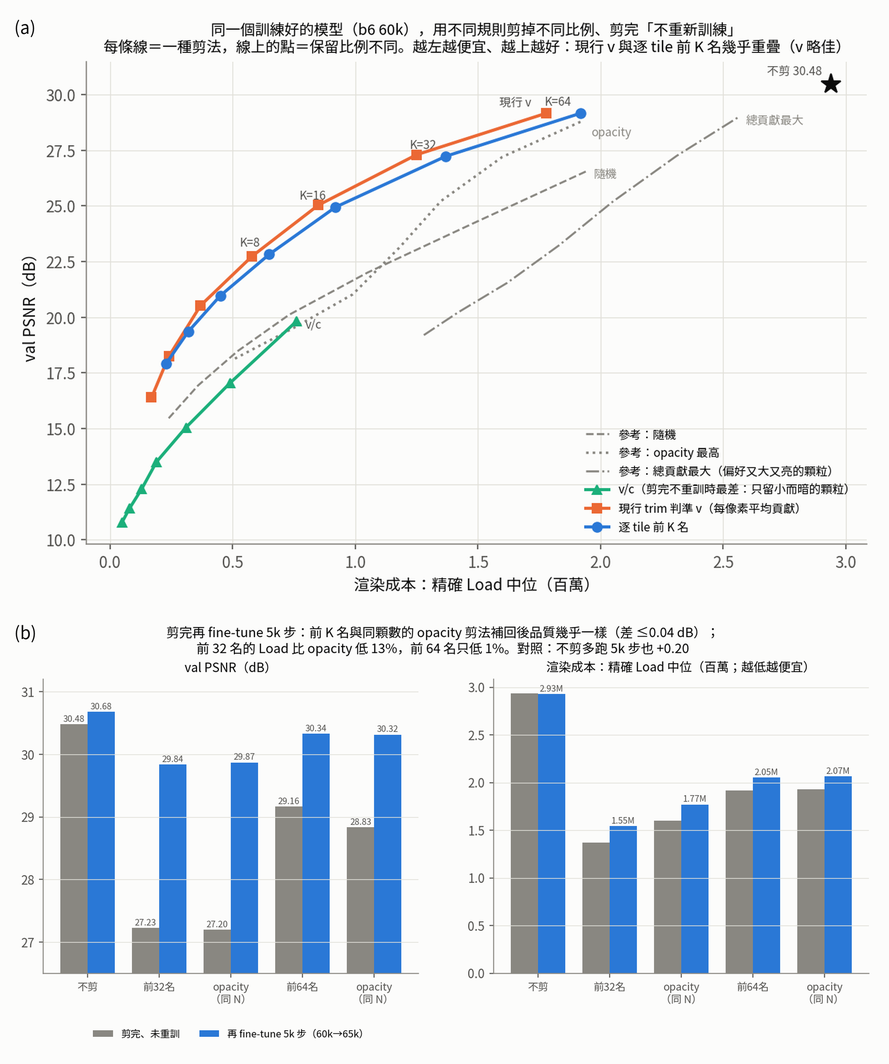
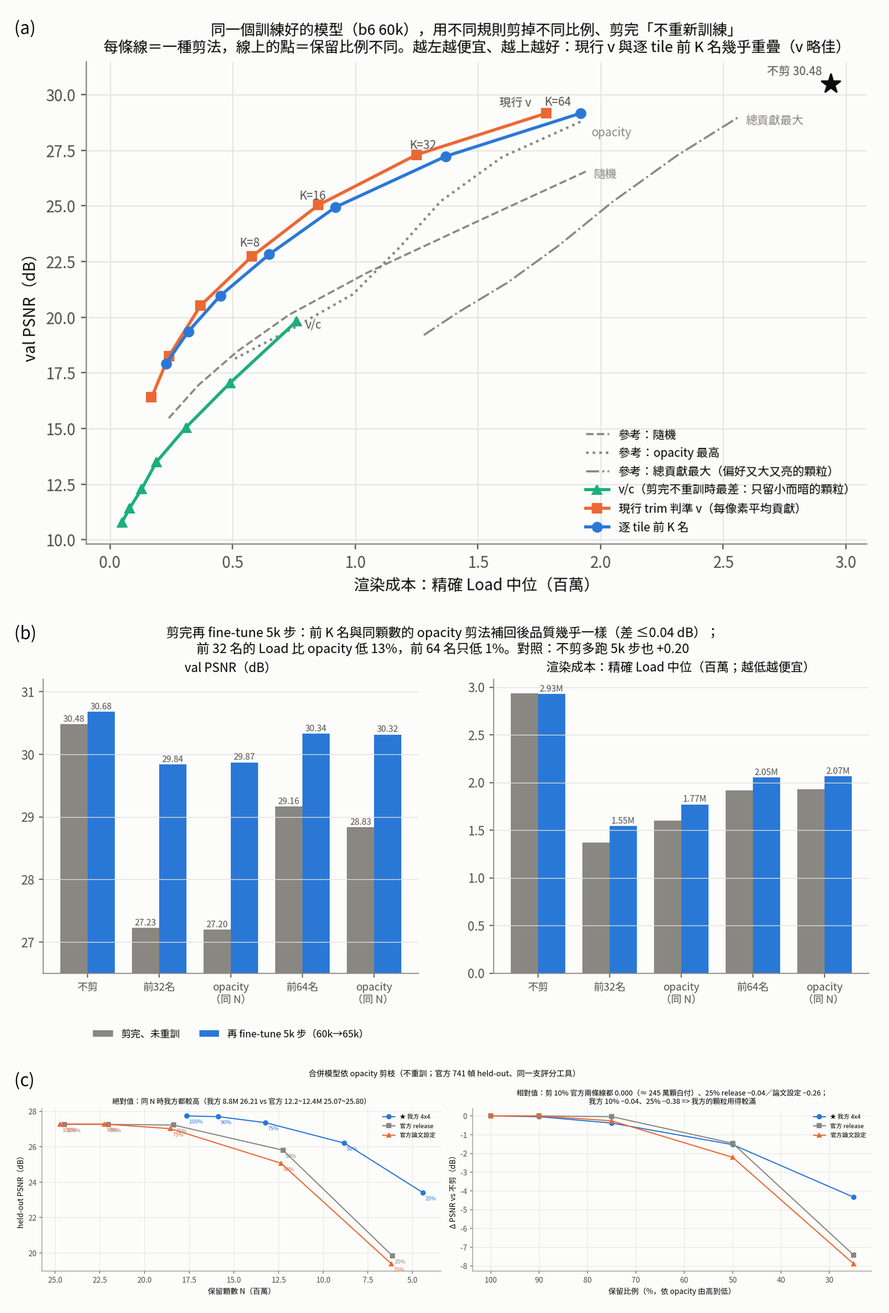
圖表：官方數據放進對應的我方圖表＋現行最佳 best0
01(d) 逐塊訓練時間三方；02(c) 訓練峰值（同塊 best0／full44／官方兩線＋16 塊）；03(d) 單塊／合併 ckpt 與部署大小（GiB，官方部署檔較小）；
04(e) 逐塊精確 Load 三方＋best0；05(a) 改 4x4 換塊評測（相對 best0，含 full44 舊配方）；06(c)＝09(h) 合併模型 opacity 剪枝三條曲線；
12(c) 合併模型逐塊 PSNR 與失敗 tile 三方（PSNR 全贏、失敗 tile 較多）；01(a) 飽和跳過＋先加總的 60k 判定（平手）

Claude-Session: https://claude.ai/code/session_01ASvjmyPMC4F37W41o8s8Aq

diff --git a/tools/plot_analysis.py b/tools/plot_analysis.py
@@ -546,7 +546,7 @@ def n01_steps(d):
         ("我方 lean 關\nb6 N 2.29M｜10-02", dict(forward=36.69, backward=84.85, optimizer=15.15, loss=5.02, trim=27875 / 500, loop=8.00, other=3.33), ""),
         ("＋lean_render\n（-20.9%／步）｜10-02", dict(forward=21.13, backward=68.64, optimizer=15.15, loss=5.05, trim=27589 / 500, loop=8.03, other=3.32), ""),
         ("＋record_reduce（現行）\ntrim 每次 -35%｜10-03", dict(forward=21.15, backward=68.75, optimizer=15.14, loss=5.06, trim=17975 / 500, loop=8.02, other=2.79), ""),
-        ("＋飽和跳過＋block 內先加總\nN 2.58M｜10-10（60k 判定中）", dict(forward=19.07, backward=40.86, optimizer=14.79, loss=5.05, trim=17104 / 500, loop=7.36, other=4.60), "（60k 分數判定已排）"),
+        ("＋飽和跳過＋block 內先加總\nN 2.58M｜10-10", dict(forward=19.07, backward=40.86, optimizer=14.79, loss=5.05, trim=17104 / 500, loop=7.36, other=4.60), "（60k 換塊評測：與 best0 平手 +0.01／+0.03 => 可開）"),
     ]
     fig, ax = plt.subplots(figsize=(14, 5.4))
     order = ["backward", "forward", "trim", "optimizer", "loss", "loop", "other"]
@@ -861,19 +861,203 @@ def n13_swap(d):
     save(fig, d, "n13_swap.png")
 
 
+# ══════════════ 10-14 使用者：官方數據放進對應的我方圖表＋現行最佳（best0）══════════════
+OFFD = os.path.join(DST, "data", "official")      # lab logs/ 的副本（2026-10-14 下載；citygs_official_*、full44_*）
+# 我方 full44（cs60_sfmdup4 配方、opacity_reg 0.002）逐塊精確 Load 中位（chart_data/load.txt ③）；官方取自 citygs_official_blockload*.log 60k
+LOAD44 = {
+    "ours": [2.576, 2.433, 2.789, 2.975, 2.305, 2.517, 2.834, 3.008, 2.338, 2.335, 2.555, 2.536, 2.870, 2.367, 2.211, 2.625],
+    "rel": [6.329, 5.297, 6.737, 5.398, 5.694, 7.041, 8.229, 6.409, 6.530, 7.717, 8.093, 6.900, 7.372, 8.685, 8.813, 7.163],
+    "pap": [6.167, 5.117, 6.596, 5.273, 5.741, 6.653, 7.938, 6.273, 6.481, 7.697, 8.131, 6.909, 7.450, 8.776, 8.479, 6.643],
+}
+BEST0 = {"peak": {6: 3.95, 12: 3.92}, "load": {6: 1.893, 12: 1.859}}   # g44_best0 60k（台帳峰值實佔 GB；chart_data/load.txt ③ 中位，百萬）
+
+
+def n01_blocktime(d):
+    """逐塊訓練時間（4x4、60k、lab 3090）：我方 full44 vs 官方 release vs 論文設定（原 09(b) 右）。"""
+    x = np.arange(16); wd = 0.27
+    fig, ax = plt.subplots(figsize=(14, 3.8))
+    for k, c, dx, lb in [("omin", C1, -wd, LBL3[0]), ("rmin", MUTED, 0, LBL3[1]), ("pmin", C2, wd, LBL3[2])]:
+        bars = ax.bar(x + dx, [m / 60 for m in F44[k]], wd, color=c, label=lb)
+        if k != "omin":
+            for b_, e in zip(bars, F44["rext" if k == "rmin" else "pext"]):
+                if e > 2000:
+                    b_.set_hatch("///"); b_.set_alpha(0.45)
+    ax.set_xticks(x); ax.set_xlabel("4x4 block"); ax.set_ylabel("訓練時間（h）"); ax.legend(fontsize=8, loc="upper left")
+    ax.set_title("逐塊訓練時間（斜線＝期間同卡外部佔用 > 2 GB，不可引用）：block 0~9 乾淨的合計 我方 19.3 h vs release 40.3 h（0.48 倍）\n"
+                 "我方＝full44（opacity_reg 0.002 舊配方）；現行 best0 只有 b6／b12，且 10-12~14 同卡外部佔用時有時無 => 時間不列", fontsize=9.5)
+    save(fig, d, "n01_blocktime.png")
+
+
+def n02_peak3(d):
+    """訓練峰值（GB）：現行 best0（b6／b12）、full44 舊配方、官方 release／論文設定（同塊）；16 塊全貌。"""
+    fig, axs = plt.subplots(1, 2, figsize=(16, 4.3), gridspec_kw={"width_ratios": [1, 1.8]})
+    ax = axs[0]
+    grp = [("★ 我方 best0（現行）", [BEST0["peak"][6], BEST0["peak"][12]], C1),
+           ("我方 full44（opacity_reg 0.002）", [F44["opk"][6], F44["opk"][12]], "#7fa9e0"),
+           ("官方 release", [F44["rpk"][6], F44["rpk"][12]], MUTED), ("官方論文設定", [F44["ppk"][6], F44["ppk"][12]], C2)]
+    x = np.arange(2); wd = 0.2
+    for k, (lb, v, c) in enumerate(grp):
+        barlabels(ax, ax.bar(x + (k - 1.5) * wd, v, wd, color=c, label=lb), "{:.2f}", size=7.5)
+    ax.axhline(6.44, color="#c0392b", lw=1, ls="--"); ax.text(1.45, 6.6, "6 GiB 卡", color="#c0392b", fontsize=8, ha="right")
+    ax.set_xticks(x); ax.set_xticklabels(["block 6", "block 12"]); ax.set_ylabel("訓練峰值實佔（GB）"); ax.legend(fontsize=7.5, loc="upper left")
+    ax.set_ylim(0, 14.5); ax.set_title("同塊訓練峰值：我方 3.9~4.1 GB vs 官方 6.2~12.7 GB", fontsize=9.5)
+    ax = axs[1]
+    xx = np.arange(16)
+    for k, c, mk, lb in [("opk", C1, "o", "我方 full44"), ("rpk", MUTED, "s", LBL3[1]), ("ppk", C2, "^", LBL3[2])]:
+        ax.plot(xx, F44[k], marker=mk, color=c, lw=0, ms=6, label=lb)
+    ax.plot([6, 12], [BEST0["peak"][6], BEST0["peak"][12]], marker="*", color="#123f7a", lw=0, ms=11, label="★ 我方 best0（現行，b6／b12）")
+    ax.axhline(6.44, color="#c0392b", lw=1, ls="--")
+    ax.set_xticks(xx); ax.set_xlabel("4x4 block"); ax.set_ylabel("訓練峰值實佔（GB）"); ax.legend(fontsize=7.5, ncol=2)
+    ax.set_title("16 塊：我方 4.05~4.17；release 7.65~14.56；論文設定 5.24~11.23（只有 b3、b7 低於 6 GiB）", fontsize=9.5)
+    save(fig, d, "n02_peak3.png")
+
+
+def n03_official(d):
+    """成果檔與部署大小：單塊 ckpt（b6）、合併 ckpt、部署（只算參數）——我方 vs 官方（`citygs_official_storage.log`）。"""
+    fig, axs = plt.subplots(1, 3, figsize=(17, 4.2))
+    lab = ["★ 我方", "官方 release", "官方論文設定"]; col = [C1, MUTED, C2]
+    ax = axs[0]
+    v = [1.52, 3.0, 2.3]; n = [2.34, 7.11, 5.31]          # GiB（官方 storage log 的「GB」是 2^30；我方 1,628,658,586 B）
+    b = ax.bar(lab, v, color=col); barlabels(ax, b, "{:.2f} GiB", size=8)
+    for i in range(3):
+        ax.text(i, v[i] / 2, f"N {n[i]:.2f}M\n{2**30 * v[i] / (n[i] * 1e6):.0f} B／顆", ha="center", color="white", fontsize=8)
+    ax.set_ylabel("GiB"); ax.set_title("單塊 60k ckpt（block 6；含 Adam）\n我方 SH3 696 B／顆；官方 SH2 456 B／顆（參數 148＋Adam 296＋緩衝 12）", fontsize=9)
+    ax = axs[1]
+    v = [11.43, 40.5, 29.0]; n = [17.63, 24.48, 24.72]    # GiB（我方 merged.ckpt 11,703 MiB）
+    b = ax.bar(lab, v, color=col); barlabels(ax, b, "{:.1f} GiB", size=8)
+    ax.set_ylabel("GiB"); ax.set_title("合併 ckpt：官方合併時把 16 塊的優化器狀態一起疊進去（1,566 B／顆）\n=> 40.5 GiB 主要是 Adam，不是模型", fontsize=9)
+    ax = axs[2]
+    per = [232, 148, 148]
+    v = [n[i] * 1e6 * per[i] / 2**30 for i in range(3)]
+    b = ax.bar(lab, v, color=col); barlabels(ax, b, "{:.2f} GiB", size=8)
+    for i in range(3):
+        ax.text(i, v[i] / 2, f"{n[i]:.2f}M 顆\n× {per[i]} B", ha="center", color="white", fontsize=8)
+    ax.set_ylabel("GiB"); ax.set_title("部署（只存參數、float32）：⚠ 官方較小 —— SH2 每顆 148 B，我方 SH3 232 B\n（我方顆數少 28%，但每顆多 57%；SH 階數的取捨見佇列 sh2／1／0）", fontsize=9)
+    fig.suptitle("儲存對照官方（lab `citygs_official_storage.log`；我方 ckpt 實測檔案大小）；官方 CPU RAM 快取未量", fontsize=10)
+    save(fig, d, "n03_official.png")
+
+
+def n04_load3(d):
+    """逐塊精確 Load 中位（同一支工具、各模型自己那塊的訓練相機）：我方 full44／best0 vs 官方。"""
+    x = np.arange(16); wd = 0.27
+    fig, ax = plt.subplots(figsize=(14, 3.9))
+    for k, c, dx, lb in [("ours", C1, -wd, "我方 full44（opacity_reg 0.002）"), ("rel", MUTED, 0, LBL3[1]), ("pap", C2, wd, LBL3[2])]:
+        ax.bar(x + dx, LOAD44[k], wd, color=c, label=lb)
+    ax.plot([6 - wd, 12 - wd], [BEST0["load"][6], BEST0["load"][12]], marker="*", color="#123f7a", lw=0, ms=12, label="★ 我方 best0（現行，b6／b12）")
+    r = np.mean(np.array(LOAD44["ours"]) / np.array(LOAD44["rel"]))
+    ax.set_xticks(x); ax.set_xlabel("4x4 block"); ax.set_ylabel("精確 Load 中位（百萬 tile／視角）"); ax.legend(fontsize=7.5, ncol=2, loc="upper left")
+    ax.set_ylim(0, 10.5)
+    ax.set_title(f"逐塊渲染成本：我方 full44 平均是 release 的 {100 * r:.0f}%；現行 best0 再低約 1/3（b6 −33%／b12 −35%）\n"
+                 "（60k 終點、各模型自己那塊的全部訓練相機；官方 lab `citygs_official_blockload*.log`、我方 `chart_data/load.txt`）", fontsize=9.5)
+    save(fig, d, "n04_load3.png")
+
+
+def n05_main4x4(d):
+    """4x4 主要跑次（相對現行 best0）：換塊評測的本塊幾何區域 PSNR、精確 Load（取代 5x5 舊版 05(a)）。"""
+    R = [("full44 舊配方（opacity_reg 0.002）", -0.054, 0.093, 49.7, 54.4),
+         ("best0 重複（只差訓練隨機性）", 0.005, 0.025, -2.5, 1.3),
+         ("opacity 二元熵正則", -0.031, 0.026, -12.3, -22.9),
+         ("trim 判準 V/C", -0.062, -0.244, -17.2, -9.7),
+         ("trim 判準 V/(β+C)", -0.042, -0.038, 18.5, 14.9),
+         ("拉長顆粒硬剪", -0.180, 0.028, 0.6, 2.0),
+         ("低解析度起步", -0.037, -0.086, -2.9, -5.0),
+         ("三次門檻剪", -0.291, -0.176, -6.1, -11.8),
+         ("週期 trim 全關", -0.395, -0.353, 7.7, 6.2),
+         ("v/c × tile 名次", -1.124, -0.192, -53.5, -46.4),
+         ("v/c", -3.817, -0.895, -63.4, -54.4)]
+    fig, axs = plt.subplots(1, 2, figsize=(16, 5.0), gridspec_kw={"width_ratios": [1.5, 1]})
+    y = np.arange(len(R)); h = 0.38
+    ax = axs[0]
+    ax.barh(y - h / 2, [r[1] for r in R], h, color=C1, label="block 6", zorder=2)
+    ax.barh(y + h / 2, [r[2] for r in R], h, color=C2, label="block 12", zorder=2)
+    for i, r in enumerate(R):
+        for off, v in ((-h / 2, r[1]), (h / 2, r[2])):
+            if v < -0.95:      # 截斷：標在長條內
+                ax.text(-0.98, i + off, f"{v:+.2f}（截斷）", va="center", ha="left", fontsize=7, color="white")
+            else:
+                ax.text(v + (0.01 if v >= 0 else -0.01), i + off, f"{v:+.2f}", va="center", ha="left" if v >= 0 else "right", fontsize=7)
+    ax.axvspan(-0.03, 0.03, color="#e1e0d9", alpha=0.7, lw=0, zorder=0)
+    ax.axvline(0, color=MUTED, lw=1); ax.set_yticks(y); ax.set_yticklabels([r[0] for r in R], fontsize=8.5); ax.invert_yaxis()
+    ax.set_xlim(-1.0, 0.2); ax.legend(fontsize=8, loc="upper left")
+    ax.set_xlabel("Δ 本塊幾何區域 PSNR（dB，換塊評測，相對 best0；灰帶 ±0.03＝重複的差；< −1 截斷）")
+    ax.set_title("品質：只有二元熵正則落在雜訊內；舊配方 b6 略好、b12 略差", fontsize=9.5)
+    ax = axs[1]
+    ax.barh(y - h / 2, [r[3] for r in R], h, color=C1); ax.barh(y + h / 2, [r[4] for r in R], h, color=C2)
+    for i, r in enumerate(R):
+        for off, v in ((-h / 2, r[3]), (h / 2, r[4])):
+            ax.text(v + (1 if v >= 0 else -1), i + off, f"{v:+.0f}%", va="center", ha="left" if v >= 0 else "right", fontsize=7)
+    ax.axvline(0, color=MUTED, lw=1); ax.set_yticks(y); ax.set_yticklabels([]); ax.invert_yaxis(); ax.set_xlim(-75, 65)
+    ax.set_xlabel("Δ 精確 Load 中位（%，相對 best0；越左越便宜）"); ax.set_title("渲染成本：舊配方比 best0 貴約 50%", fontsize=9.5)
+    fig.suptitle("60k 主要跑次（4x4 b6／b12，現行基底 best0＝dup init＋opacity_reg 0）：換塊評測（full44 合併模型只換一塊）；"
+                 "全場景對官方見 (b)、細節見 `13` §7", fontsize=10)
+    save(fig, d, "n05_main4x4.png")
+
+
+def _prune(name):
+    import csv
+    with open(os.path.join(OFFD, f"full44_prunecurve_{name}.tsv")) as f:
+        r = list(csv.DictReader(f, delimiter="\t"))
+    return [float(x["keep"]) for x in r], [float(x["N"]) / 1e6 for x in r], [float(x["psnr"]) for x in r], [float(x["lpips"]) for x in r]
+
+
+def n06_prune3(d):
+    """合併模型依 opacity 剪枝（不重訓）、官方 741 幀 held-out、同一支評分工具：我方 vs release vs 論文設定（lab full44_prunecurve_*.tsv，10-10）。"""
+    fig, axs = plt.subplots(1, 2, figsize=(16, 4.4))
+    for nm, c, mk, lb in [("ours", C1, "o", "★ 我方 4x4"), ("release", MUTED, "s", LBL3[1]), ("paper", C2, "^", LBL3[2])]:
+        k, n, p, l = _prune(nm)
+        axs[0].plot(n, p, marker=mk, color=c, label=lb)
+        for kk, nn, pp in zip(k, n, p):
+            axs[0].annotate(f"{int(round(kk * 100))}%", (nn, pp), xytext=(3, -10), textcoords="offset points", fontsize=7, color=c)
+        axs[1].plot([100 * x for x in k], [x - p[0] for x in p], marker=mk, color=c, label=lb)
+    axs[0].set_xlabel("保留顆數 N（百萬）"); axs[0].set_ylabel("held-out PSNR（dB）"); axs[0].invert_xaxis(); axs[0].legend(fontsize=8)
+    axs[0].set_title("絕對值：同 N 時我方都較高（我方 8.8M 26.21 vs 官方 12.2~12.4M 25.07~25.80）", fontsize=9.5)
+    axs[1].set_xlabel("保留比例（%，依 opacity 由高到低）"); axs[1].set_ylabel("Δ PSNR vs 不剪（dB）"); axs[1].invert_xaxis(); axs[1].legend(fontsize=8)
+    axs[1].set_title("相對值：剪 10% 官方兩條線都 0.000（≈ 245 萬顆白付）、25% release −0.04／論文設定 −0.26；\n我方 10% −0.04、25% −0.38 => 我方的顆粒用得較滿", fontsize=9.5)
+    fig.suptitle("合併模型依 opacity 剪枝（不重訓；官方 741 幀 held-out、同一支評分工具）", fontsize=10.5)
+    save(fig, d, "n06_prune3.png")
+
+
+def n12_fail3(d):
+    """合併模型逐塊（各塊 held-out 視角）：PSNR 與失敗 tile 比例，我方 vs 官方（lab full44_failheld.txt）。"""
+    import re
+    rows = []
+    for l in open(os.path.join(OFFD, "full44_failheld.txt"), encoding="utf-8"):
+        m = re.match(r"\s*(\d+|全)\s+(\d+)\s+([\d.]+)\s+([\d.]+)\s+([\d.]+)\s+\S+\s+\S+\s+ours ([\d.]+)／([\d.]+)\s+release ([\d.]+)／([\d.]+)\s+paper ([\d.]+)／([\d.]+)", l)
+        if m:
+            rows.append(m.groups())
+    blk = [r for r in rows if r[0] != "全"]; allr = [r for r in rows if r[0] == "全"][0]
+    x = np.arange(len(blk)); wd = 0.27
+    fig, axs = plt.subplots(1, 2, figsize=(17, 4.3))
+    ax = axs[0]
+    for j, c, lb in [(2, C1, "★ 我方 4x4"), (3, MUTED, LBL3[1]), (4, C2, LBL3[2])]:
+        ax.bar(x + (j - 3) * wd, [float(r[j]) for r in blk], wd, color=c, label=lb)
+    ax.set_ylim(26.2, 28.6); ax.set_xticks(x); ax.set_xticklabels([r[0] for r in blk]); ax.set_xlabel("4x4 block（該塊 held-out 視角）")
+    ax.set_ylabel("合併模型 PSNR（dB）"); ax.legend(fontsize=8, ncol=3, loc="upper left")
+    ax.set_title(f"PSNR：我方 16/16 塊都高（全 741 幀 {float(allr[2]):.2f} vs {float(allr[3]):.2f}／{float(allr[4]):.2f}）", fontsize=9.5)
+    ax = axs[1]
+    for j, c, lb in [(6, C1, "★ 我方 4x4"), (8, MUTED, LBL3[1]), (10, C2, LBL3[2])]:
+        ax.bar(x + ((j - 6) / 2 - 1) * wd, [float(r[j]) for r in blk], wd, color=c, label=lb)
+    ax.set_xticks(x); ax.set_xticklabels([r[0] for r in blk]); ax.set_xlabel("4x4 block")
+    ax.set_ylabel("失敗 tile %（過對比門檻的 tile 中）"); ax.legend(fontsize=8)
+    ax.set_title(f"⚠ 失敗 tile：我方反而較多（全 {float(allr[6]):.2f}% vs {float(allr[8]):.2f}%／{float(allr[10]):.2f}%）——多在每格離接縫遠處（10-12 接縫檢查）；\n"
+                 "區塊 10 換成 best0 後該塊 0.40% -> 0.17%（10-12），全場景 best0 未重跑", fontsize=9.5)
+    fig.suptitle("合併模型逐塊對照官方（官方 741 幀 held-out、同一支評分工具；失敗 tile＝48px、GT 灰階 std >= 0.10 且 corr < 0.6）", fontsize=10.5)
+    save(fig, d, "n12_fail3.png")
+
+
 DOCS = {
-    "01_訓練時間組成": ["n01_steps", "n01_scaling", "n01_maxsplit"],
-    "02_VRAM與配置器": ["n02_segments", "n02_value"],
-    "03_儲存與RAM": ["fig4_ckpt_storage", "fig6_run_dir", "fig5_ram_cache"],
-    "04_外接盒與binning成本": ["cc1_quality_delta", "n04_time", "n04_load", "cc4_proxy_decoupled"],
-    "05_成本品質前緣與vc_trim": ["n05_main", "n05_official", "n05_frontier60k", "n05_cap60k", "fig8_trimvpc_time"],
-    "06_事後剪枝與fine-tune": ["f3_tile_topk_posthoc", "f6_prune_finetune"],
+    "01_訓練時間組成": ["n01_steps", "n01_scaling", "n01_maxsplit", "n01_blocktime"],
+    "02_VRAM與配置器": ["n02_segments", "n02_value", "n02_peak3"],
+    "03_儲存與RAM": ["fig4_ckpt_storage", "fig6_run_dir", "fig5_ram_cache", "n03_official"],
+    "04_外接盒與binning成本": ["cc1_quality_delta", "n04_time", "n04_load", "cc4_proxy_decoupled", "n04_load3"],
+    "05_成本品質前緣與vc_trim": ["n05_main4x4", "n05_official", "n05_frontier60k", "n05_cap60k", "fig8_trimvpc_time"],
+    "06_事後剪枝與fine-tune": ["f3_tile_topk_posthoc", "f6_prune_finetune", "n06_prune3"],
     "07_成本感知取樣與預算": ["n07_sampling"],
     "08_初始化": ["n08_init20k", "f4_init60k", "n08_init60k"],
-    "09_官方參考線": ["n09_full44_merged", "n09_full44_blocks", "n09_merged_blocks", "n09_stepprof", "n09_evalgap", "n09_official_blocks", "n09_trim", "f5_official_prune"],
+    "09_官方參考線": ["n09_full44_merged", "n09_full44_blocks", "n09_merged_blocks", "n09_stepprof", "n09_evalgap", "n09_official_blocks", "n09_trim", "n06_prune3"],
     "10_速度優化_lean與kernel拆解": ["n10_kernels"],
     "11_逐配對工作量上限": ["n11_tiles"],
-    "12_新年代重測_幾何floater失敗區": ["n12_recheck", "n12_heldout"],
+    "12_新年代重測_幾何floater失敗區": ["n12_recheck", "n12_heldout", "n12_fail3"],
     "13_trim判準與opacity熵的負交互": ["n13_struct", "n13_race", "n13_tiny", "n13_swap"],
 }
 
@@ -912,7 +1096,8 @@ def main():
             print(r.stdout[-2000:], r.stderr[-2000:]); raise SystemExit(f"⛔ {sc} 失敗")
     for f in (n02_current, n05_cap60k, n07_sampling, n08_init20k, n08_init60k, n09_official_blocks, n09_full44_merged, n09_full44_blocks, n09_merged_blocks, n09_stepprof, n09_evalgap, n05_arms60k, n09_trim,
               n01_steps, n01_scaling, n01_maxsplit, n02_segments, n02_value, n05_main, n05_official, n05_frontier60k, n04_time, n04_load,
-              n10_lean_loop, n10_kernels, n11_tiles, n12_recheck, n12_heldout, n13_struct, n13_race, n13_tiny, n13_swap):
+              n10_lean_loop, n10_kernels, n11_tiles, n12_recheck, n12_heldout, n13_struct, n13_race, n13_tiny, n13_swap,
+              n01_blocktime, n02_peak3, n03_official, n04_load3, n05_main4x4, n06_prune3, n12_fail3):
         f(tmp)
     for doc, panels in DOCS.items():
         paths = [os.path.join(tmp, p + ".png") for p in panels]

diff --git a/紀錄/實驗分析/05_成本品質前緣與vc_trim.md b/紀錄/實驗分析/05_成本品質前緣與vc_trim.md
@@ -12,11 +12,13 @@
 
 | 面板 | 內容 | 對應本文 |
 |---|---|---|
-| (a) | 主要跑次 vs 預設 cs60_conic（b6／b13 平均，同 N 2.34M）：val、塊內 held-out、合併後會留下部分的 held-out（mergeview）；右 = 精確 Load 變化 | §0、§0.1 |
+| (a) | **10-14 改版**：4x4 主要跑次（現行基底 best0），換塊評測的本塊幾何區域 PSNR 與精確 Load，相對 best0；含 full44 舊配方（opacity_reg 0.002）一列。舊版 5x5 b6／b13 的 (a) 數字留在本文 §0 | `13` §7 |
 | (b) | 全場景對官方 CityGSV2：合併模型渲染成本 vs 官方 741 幀 held-out（我方 4x4／release／論文設定） | §0.2、`09` §0 |
 | (c) | 60k 實測成本－品質前緣：只調 cap 的曲線（實測）＋各臂；數字＝同 Load 下比只調 cap 高多少（log 內插） | §0.3 |
 | (d) | 60k 只調 cap 的品質曲線；cap 2.6M 處的點＝同顆數下的各臂 | §3 |
 | (e) | v/c trim 的時間與成本（60k 終點、同 N 2.34M、[solo] step_breakdown） | §2 |
+
+**10-14 對照官方（使用者要求：官方跑次的數據放進對應的我方圖表；現行最佳 best0）**：(a) 換成 4x4 換塊評測：只有 opacity 二元熵正則落在雜訊內（±0.03）且 Load −12%／−23%；full44 舊配方比 best0 的 Load 高約 50%（b6 +50%／b12 +54%），品質 b6 −0.05／b12 +0.09。全場景對官方仍是 (b)（我方 full44；best0 全場景未重跑）。
 
 ## 結論
 

diff --git a/紀錄/實驗分析/12_新年代重測_幾何floater失敗區.md b/紀錄/實驗分析/12_新年代重測_幾何floater失敗區.md
@@ -13,9 +13,12 @@
 |---|---|---|
 | (a) 左 | 幾何：渲染深度與 SfM 可見點深度的相關 corr（越接近 1 越準），虛線＝官方合併模型（合併模型塊外有鄰塊，單塊模型天生吃虧） | §1 |
 | (a) 中 | 空區雕刻（dup4）：落在 SfM 光線空區的顆粒與不透明度質量比例 | §2 |
-| (a) 右 | 失敗 tile 比例（GT std ≥ 0.1、corr < 0.6）；官方逐塊模型的同一統計待量（已排） | §3 |
+| (a) 右 | 失敗 tile 比例（GT std ≥ 0.1、corr < 0.6）；官方的對照見 (c)（合併模型層級） | §3 |
 | (b) 左 | val⊂train vs 塊內 held-out（散布） | §6 |
 | (b) 右 | 塊內 held-out LPIPS | §6 |
+| (c) | 合併模型逐塊對照官方（官方 741 幀、同一支工具）：各塊 PSNR 與失敗 tile 比例（lab `full44_failheld.txt`） | §3 |
+
+**10-14 對照官方（使用者要求：官方跑次的數據放進對應的我方圖表；現行最佳 best0）**：PSNR 我方 16/16 塊都高（27.74 vs 27.26／27.28），**但失敗 tile 我方較多**（過對比門檻的 tile 中 0.71% vs 0.48%／0.54%），多出的失敗在每一格裡離接縫遠的地方（10-12 接縫檢查），逐塊以 5、6、7、11、13、15 最多（1.1~1.3%）；區塊 10 換成 best0 後該塊 0.40% -> 0.17%（10-12），全場景 best0 未重跑。
 
 ## 結論
 

diff --git a/紀錄/實驗分析/03_儲存與RAM.md b/紀錄/實驗分析/03_儲存與RAM.md
@@ -11,6 +11,9 @@
 | (a) | ckpt 的組成（10-10 更新為 60k 終點 N 2.34M：參數 0.506＋Adam 1.011 GiB）：2/3 是 Adam；參數裡主要是 SH 高階；幾何 40 B 合併成一格 | §1.1 |
 | (b) | 一個 60k 跑次目錄：中間 ckpt 佔大宗 | §1.2 |
 | (c) | CPU RAM 影像快取：舊預設每視角 25.6 MB → 現行 uint8＋不載深度 4.3 MB | §2 |
+| (d) | 對照官方：單塊 60k ckpt（b6）、合併 ckpt、部署大小（只存參數）—— 我方 vs release vs 論文設定（lab `citygs_official_storage.log`） | — |
+
+**10-14 對照官方（使用者要求：官方跑次的數據放進對應的我方圖表；現行最佳 best0）**：單塊 ckpt 我方 1.52 GiB（2.34M、697 B／顆）vs release 3.00（7.11M、453 B／顆）；合併 ckpt 11.4 vs 40.5 GiB（官方把 16 塊的 Adam 疊進合併檔，1,566 B／顆）；**部署（只存參數）官方較小**：我方 17.63M × 232 B = 3.81 GiB vs release 24.48M × 148 B = 3.37 GiB —— 我方顆數少 28%，但 SH3 每顆多 57%（SH 階數的取捨＝佇列中的 sh2／1／0）。官方的 CPU RAM 快取未量。
 
 ## 結論
 

diff --git a/紀錄/實驗分析/01_訓練時間組成.md b/紀錄/實驗分析/01_訓練時間組成.md
@@ -12,6 +12,9 @@
 | (a) | 每步逐段時間（增生期；trim 按 500 步攤平）：官方 release／論文設定，加上我方近期改動逐步疊上（lean → record_reduce → 飽和跳過＋block 內先加總） | §0.1 |
 | (b) | 每步時間隨顆數線性成長（60k、只調 cap、b6／b13；lean 關）：固定項＋斜率 × N | §0.2 |
 | (c) | max_split_size_mb:128 的代價（本機兩列，09-11）與現行 lab（不鎖、不開）並列 | §0.3、`02` §2 |
+| (d) | 逐塊訓練時間（4x4、60k）：我方 full44 vs 官方 release／論文設定（原 `09`(b) 右；斜線＝同卡外部佔用 > 2 GB，不可引用） | `09` §0.2 |
+
+**10-14 對照官方（使用者要求：官方跑次的數據放進對應的我方圖表；現行最佳 best0）**：block 0~9 乾淨的合計 我方 19.3 h vs release 40.3 h（0.48 倍）。(a) 最後一列（飽和跳過＋先加總）的 60k 換塊評測已出：與 best0 平手（+0.01／+0.03）=> 可開。現行 best0 只有 b6／b12，且 10-12~14 期間同卡外部佔用時有時無 => 不列 best0 的時間。
 
 ## 結論
 

diff --git a/紀錄/實驗分析/06_事後剪枝與fine-tune.md b/紀錄/實驗分析/06_事後剪枝與fine-tune.md
@@ -10,6 +10,9 @@
 |---|---|---|
 | (a) | 事後剪枝（不重訓）：逐 tile 前 K 名、opacity、總貢獻、隨機、現行 trim v、v/c 在同 N 下的 Load 與 PSNR | §1 |
 | (b) | 剪完接續訓練 60k→65k 後的 Load 與 PSNR | §2 |
+| (c) | 合併模型依 opacity 剪枝（不重訓；官方 741 幀 held-out、同一支評分工具）：我方 4x4 vs release vs 論文設定（lab `full44_prunecurve_*.tsv`，10-10） | — |
+
+**10-14 對照官方（使用者要求：官方跑次的數據放進對應的我方圖表；現行最佳 best0）**：同 N 時我方都較高（8.8M 26.21 vs 官方 12.2~12.4M 25.07~25.80）；剪 10% 官方兩條線都不掉（約 245 萬顆白付），我方 −0.04；剪 25% release −0.04／論文設定 −0.26／我方 −0.38 => 我方的顆粒用得較滿。
 
 ## 結論
 

diff --git a/紀錄/實驗分析/09_官方參考線.md b/紀錄/實驗分析/09_官方參考線.md
@@ -18,7 +18,7 @@
 | (e) | ★ 評分工具落差 1.47 dB 的二分：逐幀散布、暗幀換光柵器、官方 release 合理分數區間 | §0.1 |
 | (f) | 官方 block 3／6：release（trim 從未執行）vs 論文設定（trim 執行＋ω0.9、prune 0.025）的 N 與 val | §3、§4 |
 | (g) | trim 未執行 vs 執行（官方 b3，其餘配方相同）：N、val、峰值 VRAM、訓練時間 | §3 |
-| (h) | 官方合併模型依 opacity 剪枝的 held-out 曲線（⚠ 官方工具，含暗幀 => 只看形狀）；我方 4x4 同一支工具的同類曲線待量（已排） | §5 |
+| (h) | 合併模型依 opacity 剪枝：**我方 4x4 vs release vs 論文設定（10-10 已用同一支工具量完，原本寫「待量」）**；同一張圖也在 `06`(c) | §5 |
 
 ## 結論
 

diff --git a/紀錄/實驗分析/02_VRAM與配置器.md b/紀錄/實驗分析/02_VRAM與配置器.md
@@ -10,6 +10,9 @@
 |---|---|---|
 | (a) | 現行逐段 VRAM（峰值在 backward）；常駐 vs 渲染暫存分項 | §0.1 |
 | (b) | 顆數的性價比：val PSNR 對訓練峰值 VRAM 的擬合、膝點、邊際 dB／GB 函數 | §0.2 |
+| (c) | 訓練峰值實佔：左＝同塊（b6／b12）現行 best0、full44 舊配方、官方 release、論文設定；右＝16 塊全貌（原 `09`(b) 中） | `09` §0.2 |
+
+**10-14 對照官方（使用者要求：官方跑次的數據放進對應的我方圖表；現行最佳 best0）**：同塊峰值 我方 best0 3.95／3.92 GB、full44 4.05／4.05 vs release 9.70／13.35、論文設定 8.25／9.79；16 塊我方 4.05~4.17 vs release 7.65~14.56、論文設定 5.24~11.23（只有 b3、b7 低於 6 GiB）。
 
 ## 結論
 
